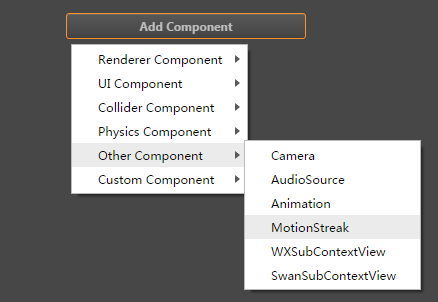
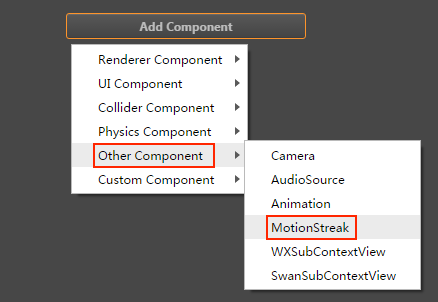
完善部分文档

Changed region(s): [[0.2078, 0.447, 0.5046, 0.5662], [0.5936, 0.6854, 0.8311, 0.8046]]

diff --git a/zh/components/motion-streak.md b/zh/components/motion-streak.md
@@ -1,8 +1,8 @@
 # MotionStreak（拖尾）组件参考
 
-MotionStreak（拖尾）是运动轨迹，用于游戏对象的运动轨迹上实现拖尾渐隐效果。
+MotionStreak（拖尾）是运动轨迹，用于在游戏对象的运动轨迹上实现拖尾渐隐效果。
 
-![add motionStreak](motion-streak/motionstreak.png)
+![](motion-streak/motionstreak.png)
 
 点击 **属性检查器** 下方的 **添加组件** 按钮，然后从 **其他组件** 中选择 **MotionStreak**，即可添加 MotionStreak 组件到节点上。
 

diff --git a/en/components/motion-streak.md b/en/components/motion-streak.md
@@ -1,8 +1,8 @@
-# MotionStreak component reference
+# MotionStreak Component Reference
 
 MotionStreak, used realization trailing fade effect on the node trajectory.
 
-![add motionStreak](motion-streak/motionstreak.png)
+![](motion-streak/motionstreak.png)
 
 Click the **Add Component** at the bottom of **Properties** and select **MotionStreak** from **Add Other Components** in order to add the **MotionStreak** component to the node.
 

diff --git a/en/components/graphics.md b/en/components/graphics.md
@@ -1,4 +1,4 @@
-# Graphics component reference
+# Graphics Component Reference
 
 The Graphics component provides a series of drawing interfaces that reference the canvas's drawing interface.
 

diff --git a/en/render/graphics/index.md b/en/render/graphics/index.md
@@ -1,4 +1,4 @@
-# Graphic system
+# Graphic System
 
 This chapter will show the usage of Cocos Creator's graphic drawing component interface.
 
